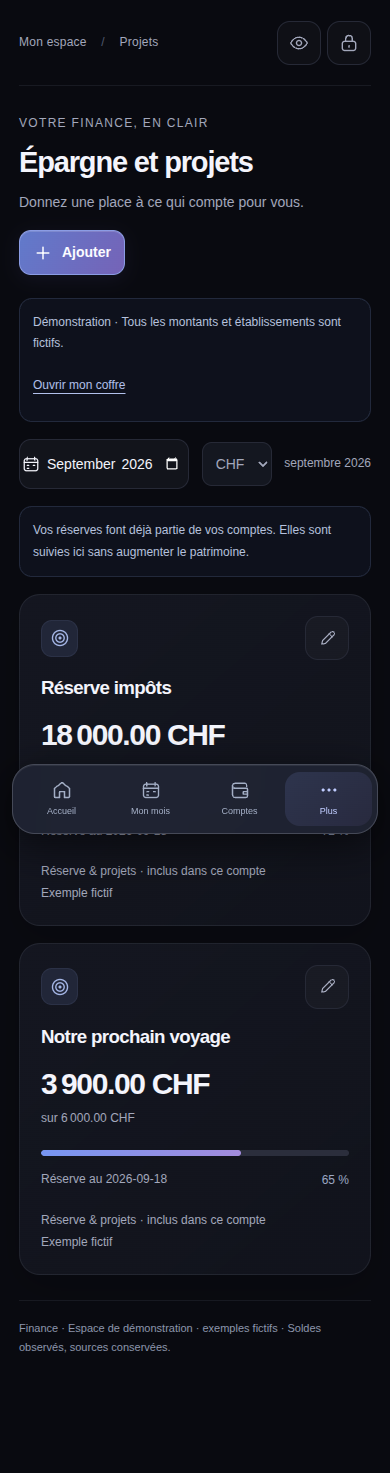
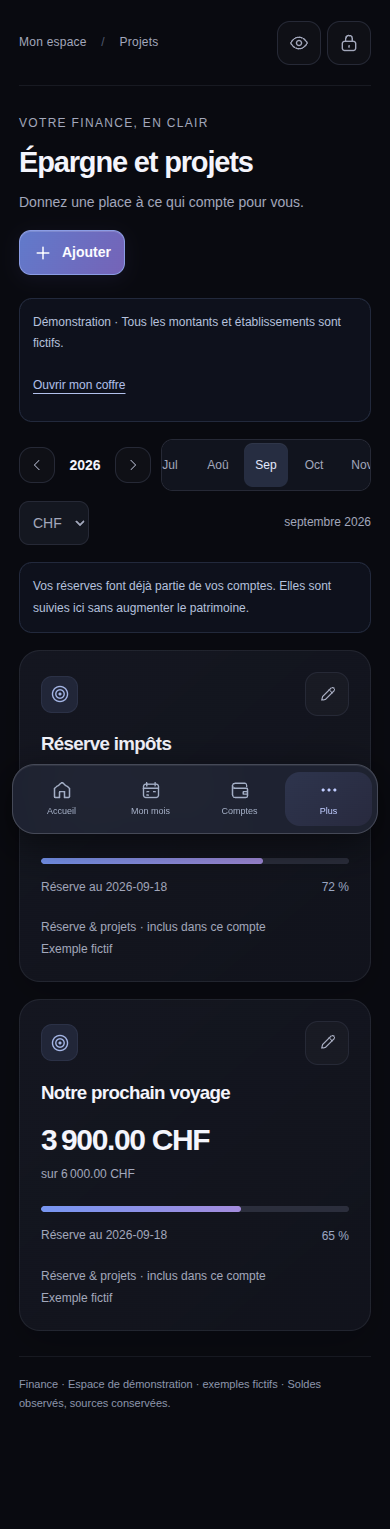
V2.2 (sélecteur de mois) : rangée Janvier-Décembre en français
Remplace l'input natif type="month" par un composant MonthPicker :
rangée compacte Janvier à Décembre, année dans un contrôle séparé avec
précédent/suivant, mois sélectionné mis en évidence, raccourci "Ce
mois-ci" affiché seulement quand une autre période est consultée. La
valeur canonique YYYY-MM reste dans l'état existant (month/setMonth) ;
le nom français n'est qu'une présentation. Aucun calendrier journalier :
seuls mois et année se changent depuis ce contrôle.

Labels courts explicites (Jan, Fév, Mar, Avr, Mai, Jun, Jul, Aoû, Sep,
Oct, Nov, Déc) plutôt qu'un slice(0,3) naïf : Juin et Juillet tronqués
tous les deux à "Jui" auraient été indiscernables. Le nom complet reste
le nom accessible (aria-label) du bouton quel que soit le libellé
affiché.

La rangée défile sur les écroans étroits (12 mois ne tiennent jamais à
390px) plutôt que de déborder ou de passer à la ligne ; le mois
sélectionné se recentre automatiquement dans la vue au montage et à
chaque redimensionnement (utile après un changement de fenêtre ou une
rotation, pas seulement au premier chargement). Correction en cours de
route : sans plancher explicite (min-width:0) sur la rangée elle-même,
rien ne forçait son propre rétrécissement à travers les conteneurs flex
imbriqués, et la page débordait horizontalement à 834px au lieu de
défiler — confirmé par l'assertion scrollWidth existante, corrigé, puis
revérifié par capture réelle aux trois formats.
[…]

diff --git a/src/components/MonthPicker.tsx b/src/components/MonthPicker.tsx
@@ -1,0 +1,102 @@
+import { useEffect, useRef } from "react";
+import { Icon } from "./Icon";
+
+// Explicit short labels, not a naive slice(0, 3): "Juin"/"Juillet" would both truncate to
+// "Jui", making them indistinguishable in the compact row. The full name is still the
+// button's accessible name (aria-label), read by assistive tech regardless of the display.
+const MONTHS = [
+  { name: "Janvier", short: "Jan" },
+  { name: "Février", short: "Fév" },
+  { name: "Mars", short: "Mar" },
+  { name: "Avril", short: "Avr" },
+  { name: "Mai", short: "Mai" },
+  { name: "Juin", short: "Jun" },
+  { name: "Juillet", short: "Jul" },
+  { name: "Août", short: "Aoû" },
+  { name: "Septembre", short: "Sep" },
+  { name: "Octobre", short: "Oct" },
+  { name: "Novembre", short: "Nov" },
+  { name: "Décembre", short: "Déc" },
+];
+
+/** Compact French Janvier–Décembre row plus a separate year control, replacing a daily
+ * calendar for changing month (see amelioration-v2.md "Sélecteur de période"). The canonical
+ * value stays `YYYY-MM` in the caller's state; the French name is presentation only. */
+export function MonthPicker({
+  month,
+  onChange,
+  currentMonth,
+}: {
+  month: string;
+  onChange: (month: string) => void;
+  /** `YYYY-MM` of the real current month, for the "Ce mois-ci" shortcut. */
+  currentMonth: string;
+}) {
+  const year = Number(month.slice(0, 4)),
+    monthNumber = Number(month.slice(5, 7));
+  const withMonth = (targetMonth: number, targetYear = year) =>
+    `${String(targetYear).padStart(4, "0")}-${String(targetMonth).padStart(2, "0")}`;
+  const activeChip = useRef<HTMLButtonElement>(null);
+  useEffect(() => {
+    // The row scrolls on narrow screens (see .month-row); without this the highlighted
+    // month can load, or end up, off-screen, defeating "le mois sélectionné en évidence".
+    // Also reruns on resize: a container that fit everything (e.g. a wide window) can
+    // start overflowing after the window narrows or a tablet rotates, without `month`
+    // itself changing to retrigger this effect on its own.
+    const scroll = () =>
+      activeChip.current?.scrollIntoView({ block: "nearest", inline: "center" });
+    scroll();
+    window.addEventListener("resize", scroll);
+    return () => window.removeEventListener("resize", scroll);
+  }, [month]);
+  return (
+    <div className="month-picker-v2">
+      <div className="year-control">
+        <button
+          type="button"
+          className="icon-button"
+          aria-label="Année précédente"
+          onClick={() => onChange(withMonth(monthNumber, year - 1))}
+        >
+          <Icon name="chevron-left" size={16} />
+        </button>
+        <strong>{year}</strong>
+        <button
+          type="button"
+          className="icon-button"
+          aria-label="Année suivante"
+          onClick={() => onChange(withMonth(monthNumber, year + 1))}
+        >
+          <Icon name="chevron-right" size={16} />
+        </button>
+      </div>
+      <div className="month-row" aria-label="Choisir un mois">
+        {MONTHS.map(({ name, short }, index) => {
+          const value = withMonth(index + 1);
+          return (
+            <button
+              type="button"
+              key={value}
+              ref={value === month ? activeChip : undefined}
+              className={`month-chip ${value === month ? "active" : ""}`}
+              aria-label={name}
+              aria-pressed={value === month}
+              onClick={() => onChange(value)}
+            >
+              {short}
+            </button>
+          );
+        })}
+      </div>
+      {month !== currentMonth && (
+        <button
+          type="button"
+          className="button small secondary"
+          onClick={() => onChange(currentMonth)}
+        >
+          Ce mois-ci
+        </button>
+      )}
+    </div>
+  );
+}

diff --git a/tests/finance.spec.ts b/tests/finance.spec.ts
@@ -610,3 +610,70 @@ test("restore an older backup: refused with an explicit confirmation, cancel cha
 
   expect(errors).toEqual([]);
 });
+
+test("month picker: French Janvier–Décembre row, year navigation, Ce mois-ci shortcut", async ({
+  page,
+}) => {
+  const monthPassphrase = "Exemple-test-Finance-mois-2026";
+  const monthNames = [
+    "Janvier",
+    "Février",
+    "Mars",
+    "Avril",
+    "Mai",
+    "Juin",
+    "Juillet",
+    "Août",
+    "Septembre",
+    "Octobre",
+    "Novembre",
+    "Décembre",
+  ];
+  const now = new Date();
+  const currentYear = now.getFullYear();
+  const currentMonthName = monthNames[now.getMonth()];
+  // 6 months away is always a different month regardless of when the suite runs.
+  const otherMonthName = monthNames[(now.getMonth() + 6) % 12];
+
+  await page.goto("/");
+  await page.getByLabel("Phrase secrète", { exact: true }).fill(monthPassphrase);
+  await page.getByLabel("Confirmer la phrase secrète").fill(monthPassphrase);
+  await page.getByRole("button", { name: "Créer mon coffre" }).click();
+
+  const currentChip = page.getByRole("button", { name: currentMonthName, exact: true });
+  await expect(currentChip).toHaveAttribute("aria-pressed", "true");
+  await expect(page.getByText(String(currentYear), { exact: true })).toBeVisible();
+  // The current month is selected by default: no "back to this month" shortcut needed yet.
+  await expect(page.getByRole("button", { name: "Ce mois-ci" })).toHaveCount(0);
+
+  // Distinct, disambiguated short labels: a naive slice(0, 3) would show "Jui" for both.
+  await expect(
+    page.getByRole("button", { name: "Juin", exact: true }),
+  ).toHaveText("Jun");
+  await expect(
+    page.getByRole("button", { name: "Juillet", exact: true }),
+  ).toHaveText("Jul");
+
+  // Selecting another month updates the pressed chip and reveals the "back to today" shortcut.
+  await page.getByRole("button", { name: otherMonthName, exact: true }).click();
+  await expect(currentChip).toHaveAttribute("aria-pressed", "false");
+  await expect(
+    page.getByRole("button", { name: otherMonthName, exact: true }),
+  ).toHaveAttribute("aria-pressed", "true");
+  const backToToday = page.getByRole("button", { name: "Ce mois-ci" });
+  await expect(backToToday).toBeVisible();
+
+  // Year navigation keeps the same month number and stays reachable from any month.
+  await page.getByRole("button", { name: "Année suivante" }).click();
+  await expect(page.getByText(String(currentYear + 1), { exact: true })).toBeVisible();
+  await expect(
+    page.getByRole("button", { name: otherMonthName, exact: true }),
+  ).toHaveAttribute("aria-pressed", "true");
+  await page.getByRole("button", { name: "Année précédente" }).click();
+  await expect(page.getByText(String(currentYear), { exact: true })).toBeVisible();
+
+  // The shortcut returns exactly to today's month and then disappears.
+  await backToToday.click();
+  await expect(currentChip).toHaveAttribute("aria-pressed", "true");
+  await expect(page.getByRole("button", { name: "Ce mois-ci" })).toHaveCount(0);
+});

diff --git a/src/index.css b/src/index.css
@@ -381,39 +381,73 @@ img.brand-mark {
   flex-wrap: wrap;
   margin: 0 0 22px;
 }
-.month-picker,
 .currency-picker {
   display: inline-flex;
   align-items: center;
   gap: 11px;
 }
-.month-picker {
-  border: 1px solid var(--line);
-  border-radius: 12px;
-  padding: 2px;
-  background: #12141b;
+.month-picker-v2 {
+  display: flex;
+  align-items: center;
+  gap: 10px;
+  /* Bounds this against .period-bar's own width instead of sizing to its content (all
+   * 12 chips unscrolled): without it, nothing forces .month-row below to shrink, and it
+   * grows the whole page wider than the viewport instead of scrolling internally. */
+  min-width: 0;
+  max-width: 100%;
 }
-.month-picker .icon-button {
-  width: 40px;
-  min-width: 44px;
-  height: 44px;
-  background: transparent;
-  border: 0;
+.year-control {
+  display: inline-flex;
+  align-items: center;
+  gap: 4px;
+  flex-shrink: 0;
 }
-.month-picker span,
-.month-picker strong {
-  min-width: 104px;
+.year-control strong {
+  min-width: 52px;
   text-align: center;
   font-size: 14px;
   font-weight: 550;
+  font-variant-numeric: tabular-nums;
 }
-.month-picker input {
-  border: 0;
-  background: transparent;
-  padding: 0 5px;
+.year-control .icon-button {
+  width: 36px;
+  min-width: 36px;
+  height: 36px;
+}
+.month-picker-v2 > .button {
+  flex-shrink: 0;
+}
+.month-row {
+  display: flex;
+  gap: 4px;
+  background: #11141e;
+  border: 1px solid var(--line);
+  padding: 4px;
+  border-radius: 12px;
+  overflow-x: auto;
+  /* The actual fix: a flex item's automatic min-width is its content size unless this is
+   * also set explicitly — without it, overflow-x:auto alone does not reliably force this
+   * row to respect the space .period-bar has, across nested flex containers. */
+  min-width: 0;
+  flex: 1 1 auto;
+  /* Twelve chips never fit at 390px: scroll, never wrap onto a second line, which
+   * would defeat the point of a compact single-row month picker. */
+  flex-wrap: nowrap;
+}
+.month-chip {
+  flex-shrink: 0;
   min-height: 44px;
-  width: 156px;
-  font-size: 14px;
+  min-width: 44px;
+  padding: 9px 13px;
+  border-radius: 9px;
+  background: transparent;
+  color: var(--muted);
+  font-size: 13px;
+}
+.month-chip.active {
+  color: #e5eaff;
+  background: #262d41;
+  box-shadow: inset 0 1px 0 rgba(255, 255, 255, 0.045);
 }
 .currency-picker {
   font-size: 12px;
@@ -1687,15 +1721,12 @@ input::file-selector-button {
     gap: 10px;
     margin-bottom: 17px;
   }
-  .month-picker {
-    gap: 1px;
+  .month-row {
+    padding: 3px;
   }
-  .month-picker span,
-  .month-picker strong {
-    min-width: 96px;
-  }
-  .month-picker input {
-    width: 145px;
+  .month-chip {
+    padding: 8px 11px;
+    font-size: 12px;
   }
   .currency-picker {
     gap: 7px;

diff --git a/src/App.tsx b/src/App.tsx
@@ -39,6 +39,7 @@ import { parseTransactionCsv, CSV_TEMPLATE } from "./importCsv";
 import { Icon } from "./components/Icon";
 import { Allocation, FlowChart, WealthChart } from "./components/Charts";
 import Editor, { type EditorSpec } from "./components/Editor";
+import { MonthPicker } from "./components/MonthPicker";
 const pages = [
   { id: "overview", name: "Vue d’ensemble", short: "Accueil", icon: "home" },
   { id: "month", name: "Mon mois", short: "Mon mois", icon: "calendar" },
@@ -1034,16 +1035,11 @@ export default function App() {
           </div>
         )}
         <div className="period-bar">
-          <label className="month-picker">
-            <Icon name="calendar" size={18} />
-            <span className="sr-only">Mois</span>
-            <input
-              type="month"
-              aria-label="Mois"
-              value={month}
-              onChange={(e) => e.target.value && setMonth(e.target.value)}
-            />
-          </label>
+          <MonthPicker
+            month={month}
+            onChange={setMonth}
+            currentMonth={today().slice(0, 7)}
+          />
           <label className="currency-picker">
             <span className="sr-only">Devise d’affichage</span>
             <select
@@ -1063,7 +1059,9 @@ export default function App() {
               ))}
             </select>
           </label>
-          <span className="meta">{monthLabel(month)}</span>
+          <span className="meta" aria-live="polite">
+            {monthLabel(month)}
+          </span>
         </div>
         {page === "overview" && (
           <>
